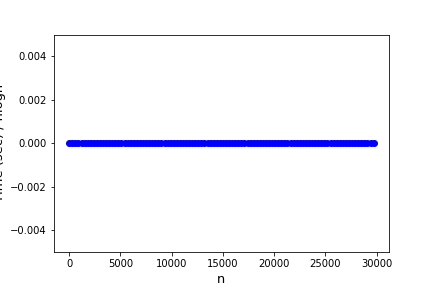
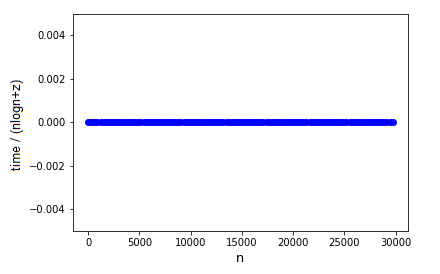
more plots

Changed region(s): [[0.0, 0.0292, 0.9329, 0.9927]]

diff --git a/find_tandem_repeats.py b/find_tandem_repeats.py
@@ -332,6 +332,7 @@ for i in lens:
 
 times = []
 exp_times = []
+exp_times2 = []
 
 for x in xs:
 	ts = []
@@ -340,7 +341,7 @@ for x in xs:
 		sa = suffix_array(x).array
 		lcp = lcp_array(x, sa)
 		branching_TRs = branching_TR_smaller_half(x, sa, lcp)
-		btr = find_all_tandem_repeats(x, branching_TRs)
+		tr = find_all_tandem_repeats(x, branching_TRs)
 		end = time.time() # Stop timer
 		ts.append(end - start)
 	# Average running time
@@ -348,11 +349,12 @@ for x in xs:
 	times.append(t)
 	n = len(x)
 	print(n)
-	exp_times.append(t/((n*log2(n))+len(btr)))
-
+	#exp_times.append(t/((n*log2(n))+len(tr)))
+	exp_times.append(t/(n**2))
+	exp_times2.append(t/((n*log2(n))+len(tr)))
 
 # Time plot
-plt.scatter(list(lens), times, color = "blue")
+plt.scatter(list(lens), times, color = "red")
 #plt.xticks(range(1,21))
 #plt.title("n = " + str(n))
 plt.xlabel("n", fontsize = 13)
@@ -361,11 +363,22 @@ plt.savefig("time_plot_" + str(N))
 plt.show()
 plt.clf() # Clear plot
 
-plt.scatter(list(lens), exp_times, color = "blue")
+plt.scatter(list(lens), exp_times, color = "red")
 #plt.xticks(range(1,21))
 #plt.title("n = " + str(n))
-plt.ylim(-0.005, 0.005)
+plt.ylim(-0.002, 0.002)
 plt.xlabel("n", fontsize = 13)
-plt.ylabel("Time (sec) / nlogn", fontsize = 13)
+plt.ylabel("Time (sec) / n^2", fontsize = 13)
 plt.savefig("time_plot_exp_" + str(N))
 plt.show()
+
+plt.scatter(list(lens), exp_times2, color = "red")
+#plt.xticks(range(1,21))
+#plt.title("n = " + str(n))
+plt.ylim(-0.002, 0.002)
+plt.xlabel("n", fontsize = 13)
+plt.ylabel("Time (sec) / nlogn + z", fontsize = 13)
+plt.savefig("time_plot_exp2_" + str(N))
+plt.show()
+
+
